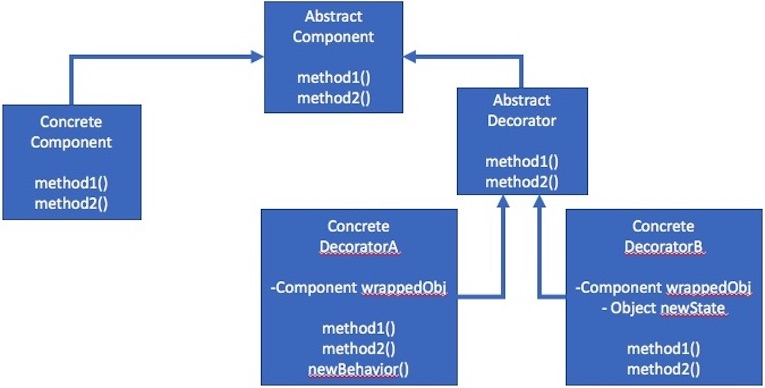
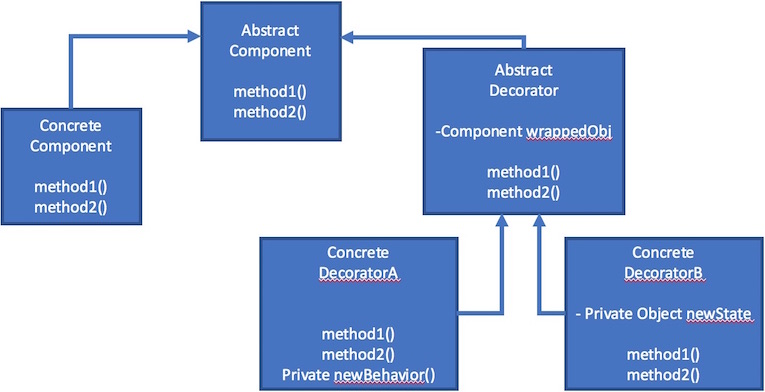
modifications to the diagrams and to some of the text for the decorator blog post

Changed region(s): [[0.0, 0.0, 1.0, 1.0]]

diff --git a/_posts/2017-04-02-decorator.md b/_posts/2017-04-02-decorator.md
@@ -13,11 +13,11 @@ Next up in my Design Patterns series is the `Decorator` pattern, which allows yo
 
 This is an oft mentioned phrase when learning Object Oriented Programming, and it surfaces again when studying the utility of the decorator pattern.
 
-When sub-classing, behaviors inherited from the parent are statically set at compile time. This leads to valuable compile time checks and *can* reduce the frequency of runtime errors, but introduces unnecessary rigidity to your class hierarchy. 
+When sub-classing, behaviors inherited from the parent are statically set at compile time. This leads to valuable compile time checks and *can* reduce the frequency of runtime errors, but it also introduces rigidity to your class hierarchy.
 
-Dynamically extending an object's behavior through composition can be done at runtime, and removes the rigidity introduced by inheritance. In addition, it allows you as the developer to write *new code to extend the target object with new behaviors* instead of needing to alter the original class code. Writing new code eliminates the potential for introducing bugs in the parent class, or inadvertently causing side-effects in code elsewhere in the application that relies on the original class definition. 
+Dynamically extending an object's behavior through composition can be done at runtime, and removes the rigidity introduced by inheritance. In addition, it allows you as the developer to write *new code to extend the target object with new behaviors* instead of needing to alter the original class code. Writing new code eliminates the potential for introducing bugs in the parent class, or inadvertently causing side-effects in code elsewhere in the application that relies on the original class definition.
 
-This hits at a core principle of good class design: **classes should be open for extension, but closed for modification.** This is also known as the "Open/Closed Principle".
+This hits at a core principle of good class design called the "Open/Closed Principle": **classes should be open for extension, but closed for modification.**
 
 ### The Decorator Pattern
 
@@ -30,18 +30,18 @@ Decorators can be thought of as wrappers around the object they are decorating: 
   <figcaption>Class Diagram for Decorator Pattern</figcaption>
 </figure>
 
- The diagram above shows how the decorator pattern might be implemented in a traditional OO language like Java. 
+ The diagram above shows how the decorator pattern might be implemented in a traditional OO language like Java.
 
- - `Component` and `Decorator` themselves are both either abstract classes or interfaces (doesn't matter which). 
+ - `Component` and `Decorator` themselves are both either abstract classes or interfaces (doesn't matter which).
  - `Decorator` extends (or implements) `Component`, which gives concrete implementations of `Decorator` the ability to be used in place of concrete implementations of `Component`!
  - Each concrete implementation of `Decorator` has a field of type `Component` (the SuperType shared between the decorator and the decorator target) where the instance of the object `ConcreteComponent` to be decorated is set.
  - Methods overridden in a `Decorator` will delegate their implementation to the object they are wrapping, then will extend or modify that implementation with new behavior.
- - Since the concrete `Decorators` themselves share the type `Component`, decorators can be wrapped in other decorators! Each one adds a new layer or "wrapper" to the inner concrete object. 
- - `Decorators` can be used to add both new behaviors (like DecoratorA), and even new state (like DecoratorB) to the decorated objects.
+ - Since the concrete `Decorators` themselves share the type `Component`, decorators can be wrapped in other decorators! Each one adds a new layer or "wrapper" to the inner concrete object.
+ - `Decorator` is useful for *extending* behaviors exposed as abstract methods by the shared supertype (`Component` above), but cannot be used to add brand new behaviors to objects that do not already exist as abstract methods in the shared supertype. In other words, a decorator cannot add a brand new method to a decorated object, because the contract doesn't exist in the shared abstract supertype.
 
 ### Pizza Shop Example
 
-Let's say we have a pizza shop: pizzas can have various pizza toppings like Pepperoni or Cheese, and can be either Thin Crust or Deep Dish (I am from Chicago after all!). [Check out the following repository with some test code that I wrote][test]{:target="_blank"} to get an idea of how the decorator pattern can help design a system that flexibly meets any pizza / topping combination the customer throws at you! 
+Let's say we have a pizza shop: pizzas can have various pizza toppings like Pepperoni or Cheese, and can be either Thin Crust or Deep Dish (I am from Chicago after all!). [Check out the following repository with some test code that I wrote][test]{:target="_blank"} to get an idea of how the decorator pattern can help design a system that flexibly meets any pizza / topping combination the customer throws at you!
 
 <figure>
   <img src="/assets/images/PizzaClassDiagram.jpg">
@@ -54,11 +54,11 @@ There are several limitations of the `Decorator` pattern that I'd like to highli
 
 - If you have code that relies on **the type of the concrete implementation that you are wrapping** (i.e. DeepDish or ThinCrust from the pizza example above) then decorator will obscure that type information from you.
 - Decorating your objects manually **is a pain**. Lots of parameters to remember to pass and many constructors if everything is a new object. Combining `Decorator` with the `Factory` or `Builder` patterns alleviates some of this overhead, and makes building purpose driven objects much simpler and less prone to error.
-- As seen from my example repo, using `Decorator` often leads to **numerous small classes** that are each responsible for one behavior modification. This makes the code somewhat more difficult to read and understand. 
+- As seen from my example repo, using `Decorator` often leads to **numerous small classes** that are each responsible for one behavior modification. This makes the code somewhat more difficult to read and understand.
 
 ### Conclusion
 
-Doing a deep dive in to the Decorator pattern helped me get a better understanding of its pros and cons. The Open/Closed principle (keeping closed parts isolated from new extensions) is great to strive for while developing systems, and `Decorator` gets us closer to this goal. 
+Doing a deep dive in to the Decorator pattern helped me get a better understanding of its pros and cons. The Open/Closed principle (keeping closed parts isolated from new extensions) is great to strive for while developing systems, and `Decorator` gets us closer to this goal.
 
 My next post will be about the Factory pattern, coming soon!
 
